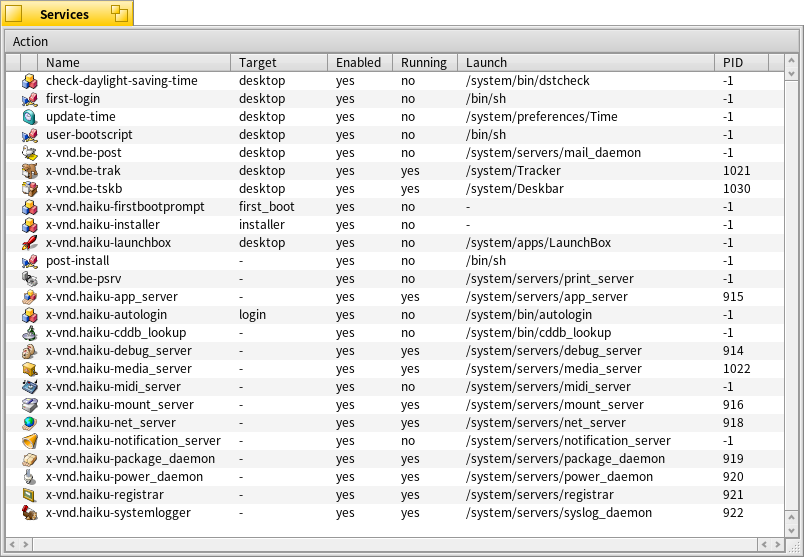
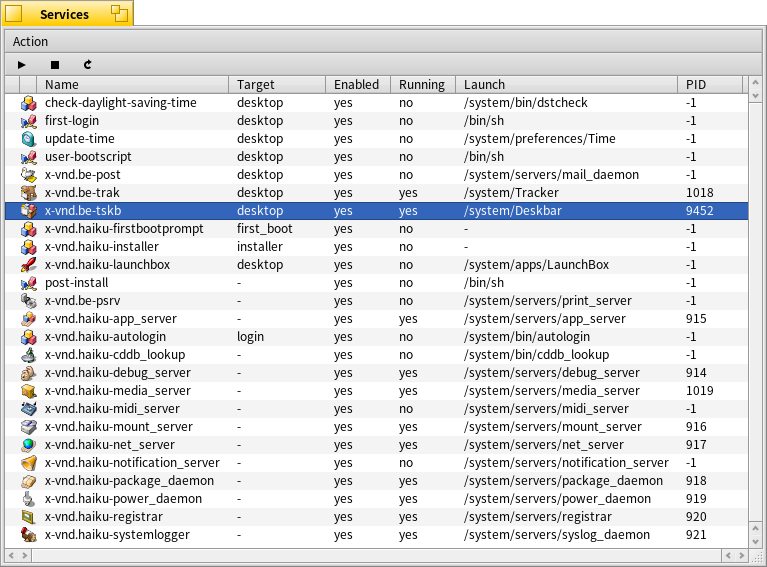
Services: add tool bar

Changed region(s): [[0.0, 0.0, 1.0, 1.0], [0.2999, 0.5494, 0.3598, 0.6104]]

diff --git a/Services/Services.cpp b/Services/Services.cpp
@@ -4,6 +4,7 @@
 #include <View.h>
 #include <MessageRunner.h>
 #include <MenuBar.h>
+#include <MenuItem.h>
 #include <LayoutBuilder.h>
 #include <Rect.h>
 #include <OS.h>
@@ -12,8 +13,13 @@
 #include <private/interface/ColumnListView.h>
 #include <private/interface/ColumnTypes.h>
 
+#include <Resources.h>
+#include <IconUtils.h>
+
 #include <Entry.h>
 #include <NodeInfo.h>
+
+#include "Resources.h"
 
 enum {
 	invokeMsg = 1,
@@ -159,6 +165,71 @@ void InitList(BColumnListView *view) {
 	ListServices(view);
 }
 
+class IconMenuItem: public BMenuItem
+{
+public:
+	IconMenuItem(BBitmap *bitmap, BMessage* message, char shortcut = 0, uint32 modifiers = 0):
+		BMenuItem("", message, shortcut, modifiers),
+		fBitmap(bitmap)
+	{
+	}
+
+	~IconMenuItem()
+	{
+		if (fBitmap != NULL) {
+			delete fBitmap; fBitmap = NULL;
+		}
+	}
+
+	void GetContentSize(float* width, float* height)
+	{
+		if (fBitmap == NULL) {
+			*width = 0;
+			*height = 0;
+			return;
+		}
+		*width = fBitmap->Bounds().Width() + 1;
+		*height = fBitmap->Bounds().Height() + 1;
+	};
+
+	void DrawContent()
+	{
+		if (fBitmap == NULL)
+			return;
+
+		BRect frame = Frame();
+		BPoint center = BPoint((frame.left + frame.right)/2, (frame.top + frame.bottom)/2);
+		Menu()->PushState();
+		Menu()->SetDrawingMode(B_OP_ALPHA);
+		Menu()->DrawBitmap(fBitmap, center - BPoint(fBitmap->Bounds().Width()/2, fBitmap->Bounds().Height()/2));
+		Menu()->PopState();
+	}
+
+private:
+	BBitmap *fBitmap;
+};
+
+
+BBitmap *LoadIcon(int32 id, int32 width, int32 height)
+{
+	size_t dataSize;
+	const void* data = BApplication::AppResources()->FindResource(B_VECTOR_ICON_TYPE, id, &dataSize);
+
+	if (data == NULL) return NULL;
+
+	BBitmap *bitmap = new BBitmap(BRect(0, 0, width - 1, height - 1), B_RGBA32);
+
+	if (bitmap == NULL) return NULL;
+
+	if (BIconUtils::GetVectorIcon((const uint8*)data, dataSize, bitmap) != B_OK) {
+		delete bitmap;
+		return NULL;
+	}
+
+	return bitmap;
+}
+
+
 class ServicesWindow: public BWindow
 {
 private:
@@ -168,7 +239,7 @@ public:
 	ServicesWindow(BRect frame): BWindow(frame, "Services", B_DOCUMENT_WINDOW, B_ASYNCHRONOUS_CONTROLS | B_AUTO_UPDATE_SIZE_LIMITS),
 		listUpdater(BMessenger(this), BMessage(updateMsg), 500000)
 	{
-		BMenu *menu, *menu2;
+		BMenu *menu, *menu2, *toolbar;
 		BMenuItem *it;
 
 		menu = new BMenuBar("menu", B_ITEMS_IN_ROW, true);
@@ -178,14 +249,19 @@ public:
 			menu2->AddItem(new BMenuItem("Restart", new BMessage(restartMsg)));
 			menu->AddItem(menu2);
 
+		toolbar = new BMenuBar("toolbar", B_ITEMS_IN_ROW, true);
+		toolbar->AddItem(new IconMenuItem(LoadIcon(resStartIcon, 16, 16), new BMessage(startMsg)));
+		toolbar->AddItem(new IconMenuItem(LoadIcon(resStopIcon, 16, 16), new BMessage(stopMsg)));
+		toolbar->AddItem(new IconMenuItem(LoadIcon(resRestartIcon, 16, 16), new BMessage(restartMsg)));
+
 		this->view = new BColumnListView("view", 0);
 		this->view->SetInvocationMessage(new BMessage(invokeMsg));
 		this->view->SetSelectionMessage(new BMessage(selectMsg));
 		InitList(this->view);
 
 		BLayoutBuilder::Group<>(this, B_VERTICAL, 0)
-			//.SetInsets(B_USE_DEFAULT_SPACING)
 			.Add(menu)
+			.Add(toolbar)
 			.AddGroup(B_HORIZONTAL)
 				.Add(this->view)
 				.SetInsets(-1)
@@ -247,8 +323,3 @@ int main()
 	app.Run();
 	return 0;
 }
-
-/*
-gcc -g -lbe ListArea.cpp /boot/system/develop/lib/libcolumnlistview.a -o ListArea
-ListArea
-*/

diff --git a/Services/Resources.h b/Services/Resources.h
@@ -1,0 +1,5 @@
+enum {
+	resStartIcon = 0x100,
+	resStopIcon,
+	resRestartIcon
+};
